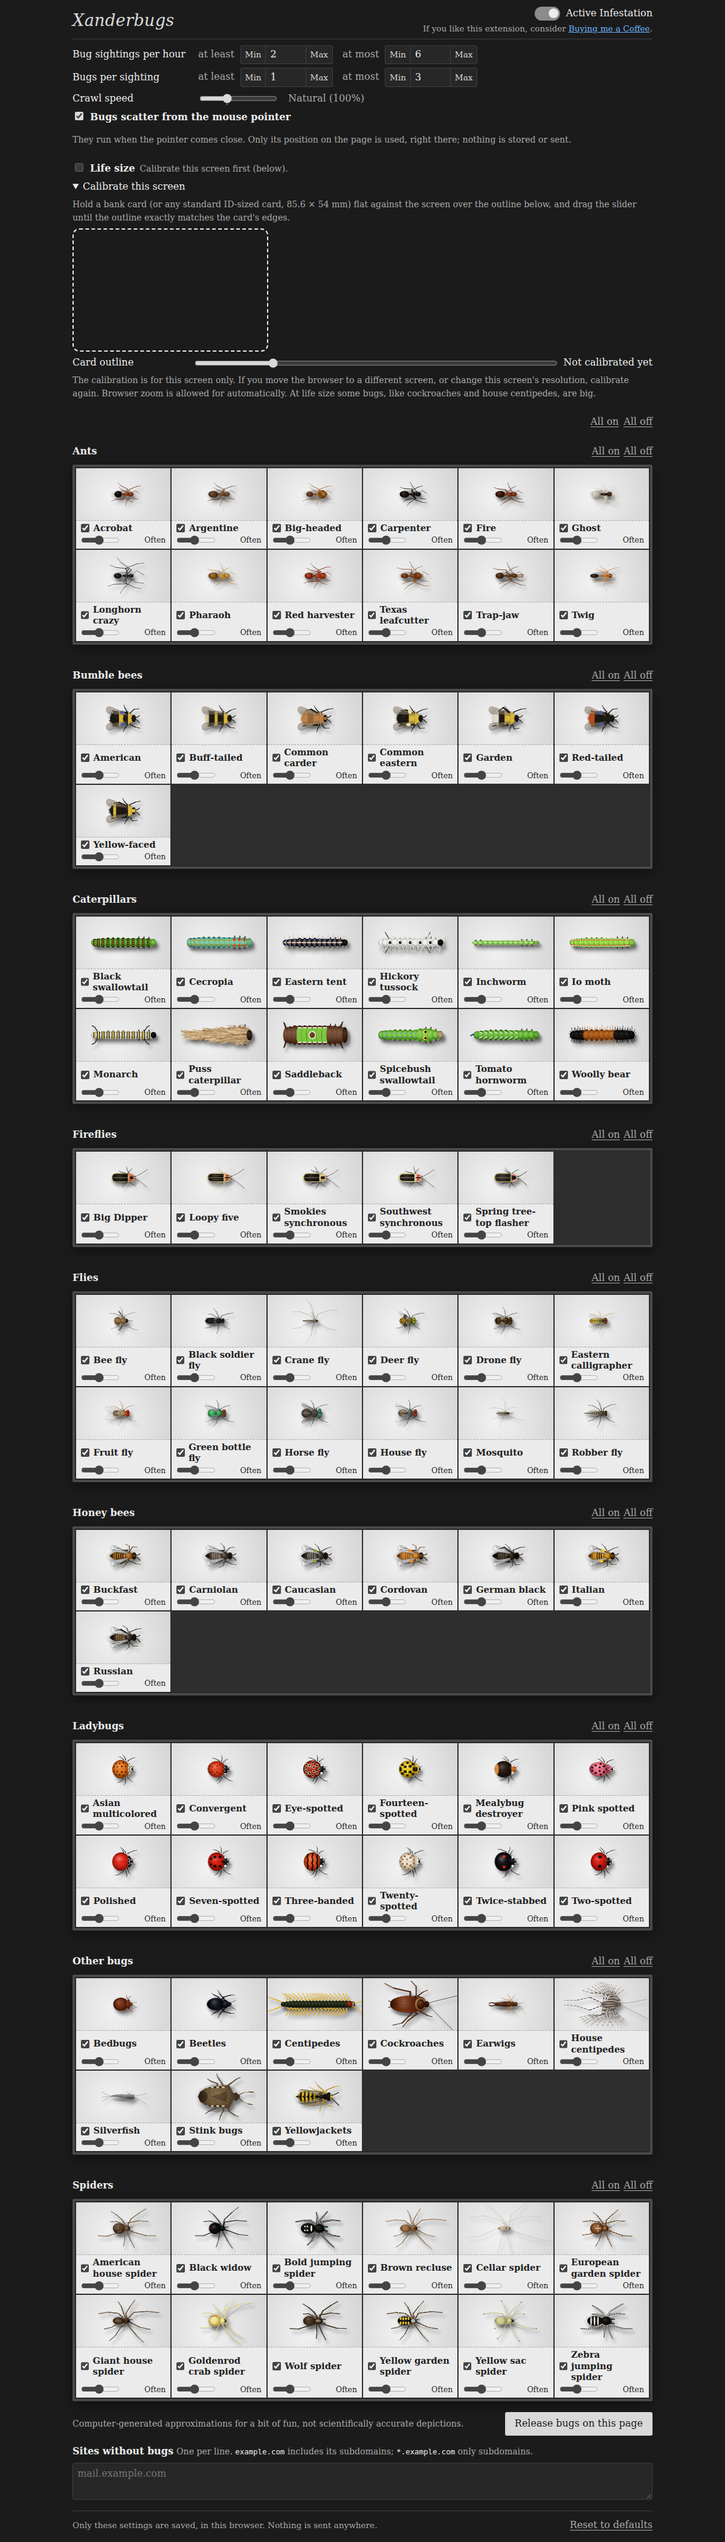
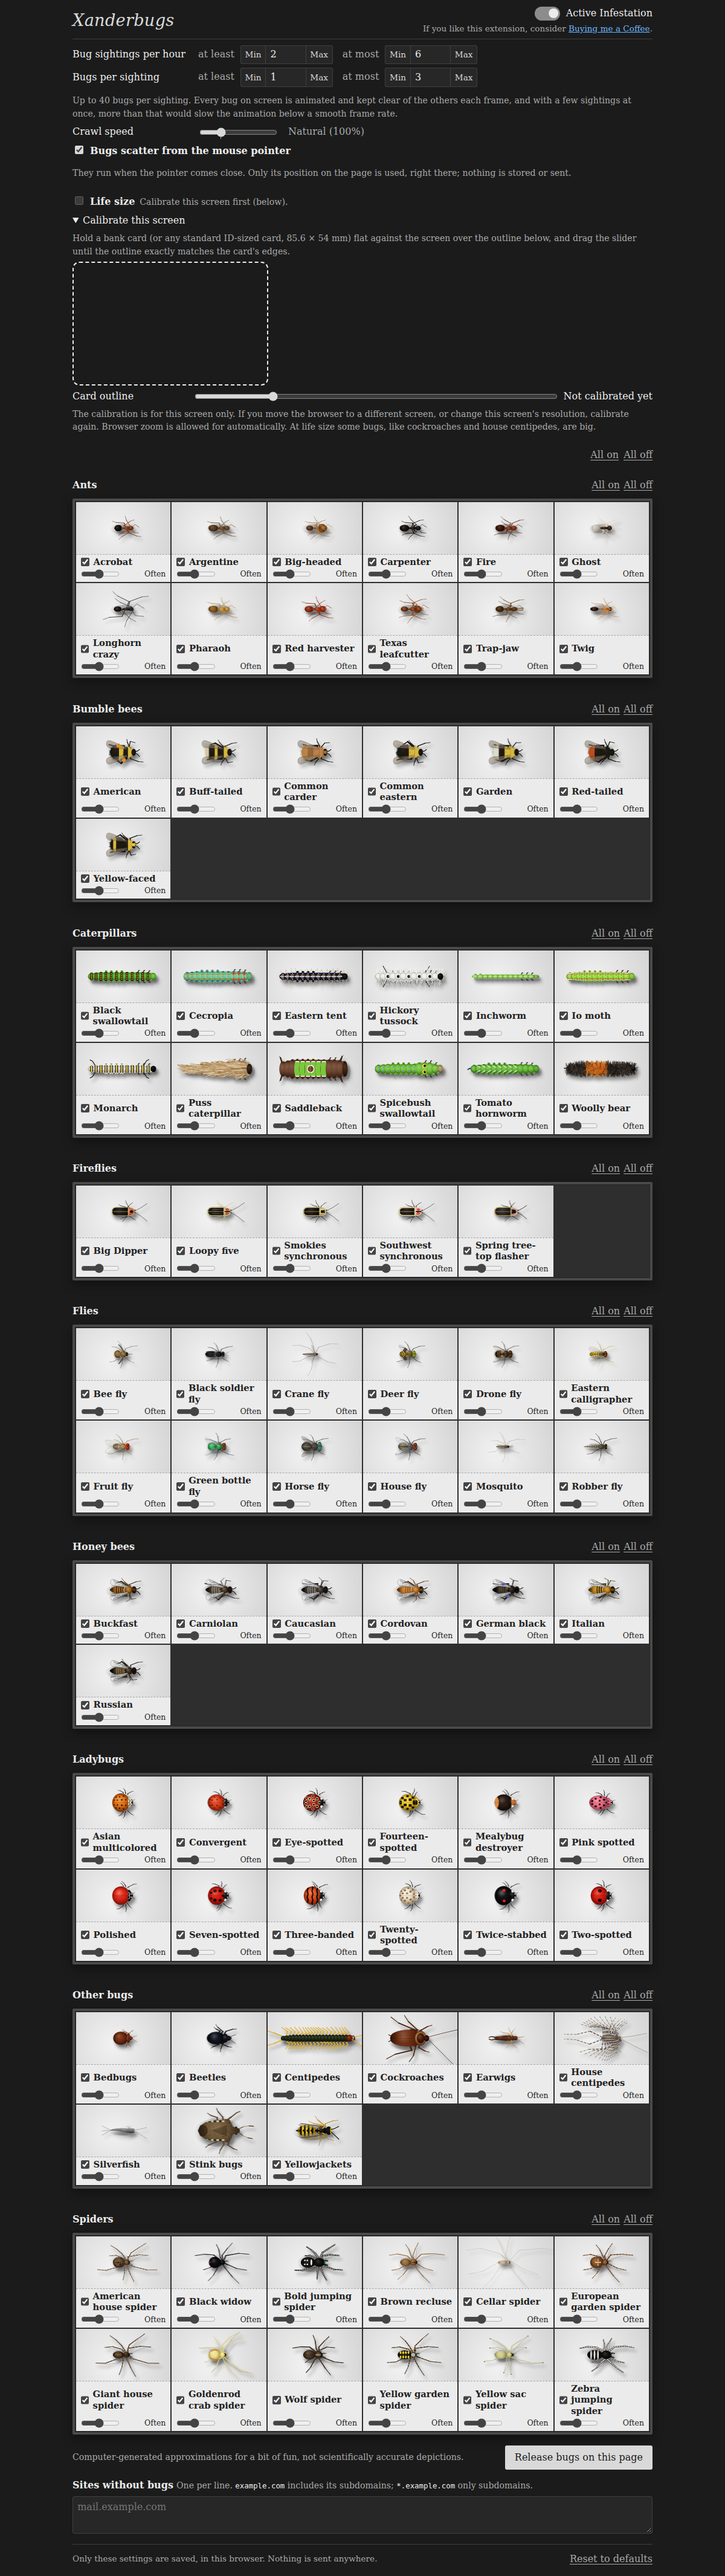
Releases work with every species enabled; up to 40 bugs a sighting
- Spawn messages accepted at most 64 species, so with all 83 enabled the
  toolbar and scheduled releases were silently rejected. The cap is now
  the number of known species, each listed once.
- Bugs per sighting may go up to 40 (was 20); the settings page and
  README explain that more, with a few sightings at once, would slow the
  animation below a smooth frame rate.
- Screenshots refreshed.

diff --git a/src/options/options.html b/src/options/options.html
@@ -30,9 +30,10 @@
       </div>
       <div class="range-row">
         <span class="range-label">Bugs per sighting</span>
-        <label>at least <span class="stepper"><button type="button" class="step" data-set="min" data-for="swarm-min">Min</button><input type="number" id="swarm-min" min="1" max="20"><button type="button" class="step" data-set="max" data-for="swarm-min">Max</button></span></label>
-        <label>at most <span class="stepper"><button type="button" class="step" data-set="min" data-for="swarm-max">Min</button><input type="number" id="swarm-max" min="1" max="20"><button type="button" class="step" data-set="max" data-for="swarm-max">Max</button></span></label>
+        <label>at least <span class="stepper"><button type="button" class="step" data-set="min" data-for="swarm-min">Min</button><input type="number" id="swarm-min" min="1" max="40"><button type="button" class="step" data-set="max" data-for="swarm-min">Max</button></span></label>
+        <label>at most <span class="stepper"><button type="button" class="step" data-set="min" data-for="swarm-max">Min</button><input type="number" id="swarm-max" min="1" max="40"><button type="button" class="step" data-set="max" data-for="swarm-max">Max</button></span></label>
       </div>
+      <p class="hint" id="swarm-limit-hint">Up to 40 bugs per sighting. Every bug on screen is animated and kept clear of the others each frame, and with a few sightings at once, more than that would slow the animation below a smooth frame rate.</p>
       <div class="range-row">
         <label for="bug-speed" class="range-label">Crawl speed</label>
         <input type="range" id="bug-speed" min="50" max="250" step="5" list="speed-marks">

diff --git a/test/messages.test.js b/test/messages.test.js
@@ -36,6 +36,16 @@ test('spawn speed is optional but must be in range', () => {
   assert.equal(isValidMessage({ ...base, speed: '2' }), false);
 });
 
+test('a release can carry every species (each once) and up to 40 bugs', async () => {
+  const { BUG_SPECIES } = await import('../src/lib/settings.js');
+  const base = { target: 'content', type: 'spawn', species: ['ant'], count: 3 };
+  const every = BUG_SPECIES.map(x => x.id);
+  assert.ok(every.length > 64, 'more species than the old cap of 64');
+  assert.ok(isValidMessage({ ...base, species: every }), 'every species at once');
+  assert.ok(!isValidMessage({ ...base, species: [every[0], every[0]] }), 'but each only once');
+  assert.ok(isValidMessage({ ...base, count: 40 }) && !isValidMessage({ ...base, count: 41 }), 'up to 40 bugs a sighting');
+});
+
 test('spawn weights are optional but must be known species with whole numbers 1..10', () => {
   const base = { target: 'content', type: 'spawn', species: ['ant'], count: 1 };
   assert.ok(isValidMessage({ ...base, weights: { ant: 1, spider: 10 } }));

diff --git a/src/lib/messages.js b/src/lib/messages.js
@@ -2,7 +2,8 @@ import { BUG_SPECIES, LIMITS } from './settings.js';
 
 const SPECIES = new Set(BUG_SPECIES.map(s => s.id));
 
-const isIdList = (l, allowed) => Array.isArray(l) && l.length <= 64 && l.every(x => allowed.has(x));
+// Any of the known ids, each at most once (so a list can name every species, however many there are).
+const isIdList = (l, allowed) => Array.isArray(l) && l.length <= allowed.size && new Set(l).size === l.length && l.every(x => allowed.has(x));
 const isInt = (n, lo, hi) => Number.isInteger(n) && n >= lo && n <= hi;
 const isWeights = w => w && typeof w === 'object' && !Array.isArray(w)
   && Object.entries(w).every(([k, v]) => SPECIES.has(k) && isInt(v, LIMITS.weight.min, LIMITS.weight.max));

diff --git a/src/lib/settings.js b/src/lib/settings.js
@@ -95,7 +95,7 @@ export const OTHER_GROUP = 'Other bugs';
 
 export const LIMITS = {
   perHour: { min: 0, max: 60 },
-  perSwarm: { min: 1, max: 20 },
+  perSwarm: { min: 1, max: 40 },   // above ~40 a few releases at once start to cost a smooth frame
   speed: { min: 0.5, max: 2.5 },   // slower than half speed, bugs take ages to come on screen
   weight: { min: 1, max: 10, default: 5 },
   devicePxPerMm: { min: 1, max: 40 },   // a screen calibration: physical pixels per millimetre

diff --git a/test/settings.test.js b/test/settings.test.js
@@ -20,7 +20,7 @@ test('ranges are clamped and min/max swapped when inverted', () => {
   assert.equal(s.bugs.perHourMin, 3);
   assert.equal(s.bugs.perHourMax, 8);
   assert.equal(s.bugs.perSwarmMin, 1);
-  assert.equal(s.bugs.perSwarmMax, 20);
+  assert.equal(s.bugs.perSwarmMax, 40);
 });
 
 test('non-numeric ranges fall back to defaults', () => {

diff --git a/README.md b/README.md
@@ -32,7 +32,7 @@ Open the settings page by right-clicking the toolbar icon and choosing **Options
 |---|---|---|
 | **Active Infestation** | Master on/off switch for scheduled sightings. Also available from the toolbar icon's right-click menu. | On |
 | **Bug sightings per hour** | How many times per hour bugs show up, picked at random between *at least* and *at most* (0 to 60). The **Min**/**Max** buttons jump to the limits. | 2 to 6 |
-| **Bugs per sighting** | How many bugs appear in each sighting (1 to 20). | 1 to 3 |
+| **Bugs per sighting** | How many bugs appear in each sighting (1 to 40; more, with a few sightings on screen at once, would slow the animation below a smooth frame rate). | 1 to 3 |
 | **Crawl speed** | How fast bugs move, from 50% to 250% of natural speed. **Reset to normal speed** returns it to 100%. | 100% |
 | **Bugs scatter from the mouse pointer** | Bugs run when the pointer comes close. Only its position on the page is used, right there; nothing is stored or sent. | On |
 | **Life size** | Draws every bug at its real size on this screen. Needs **Calibrate this screen** first: hold a bank card against the outline and drag the slider until they match (redo it on another screen or resolution). | Off |
